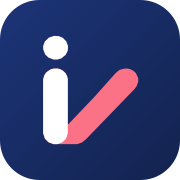
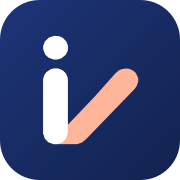
feat(brand): 액센트 코랄을 소프트 피치 #FFB59A 로 톤다운
- globals.css --accent #fb7185→#ffb59a, -deep #e11d48→#c2622f, -soft #ffe4e6→#ffead9
- 마케팅 자산과 코랄 통일 (큰 면적에서 쨍한 로즈를 부드러운 피치로)
- icon.svg 슬래시 재색 + apple-icon(180)/favicon(16·32·48)/email-logo(144) 재생성
- LogoMark 는 var(--accent) 참조라 자동 반영, rose-500(일요일)·녹음펄스는 시맨틱이라 유지

Changed region(s): [[0.3333, 0.3611, 0.7778, 0.8056]]

diff --git a/app/globals.css b/app/globals.css
@@ -23,9 +23,9 @@
   --primary: #1c3478; /* deep navy, toned down (구 electric indigo #4f46e5) */
   --primary-deep: #13234f;
   --primary-soft: #e7eaf3; /* tag/badge bg */
-  --accent: #fb7185; /* coral — 네이비와 따뜻한 대비 포인트 (구 amber #f59e0b) */
-  --accent-deep: #e11d48;
-  --accent-soft: #ffe4e6;
+  --accent: #ffb59a; /* soft peach-coral — 네이비와 따뜻한 대비 포인트 (구 rose #fb7185 → 톤다운, 마케팅과 통일) */
+  --accent-deep: #c2622f;
+  --accent-soft: #ffead9;
 
   /* Azure — 하늘색 보조 (히어로 채팅 데모·말풍선) */
   --azure: #7dd3fc; /* 글로우·강조 점 */
